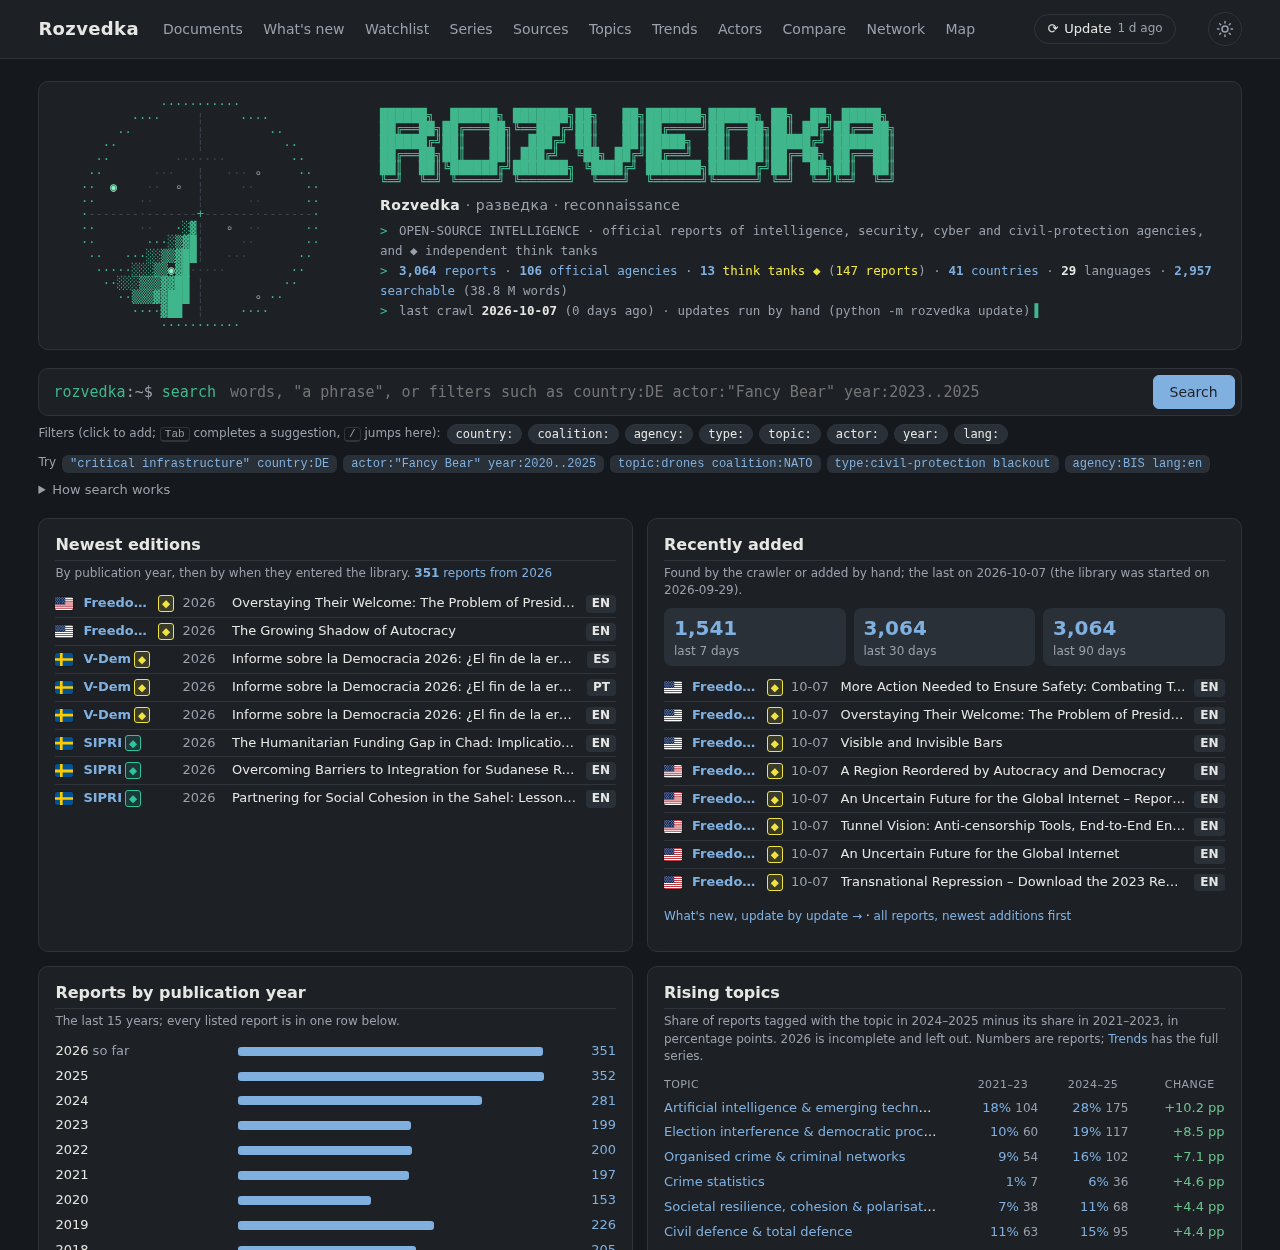
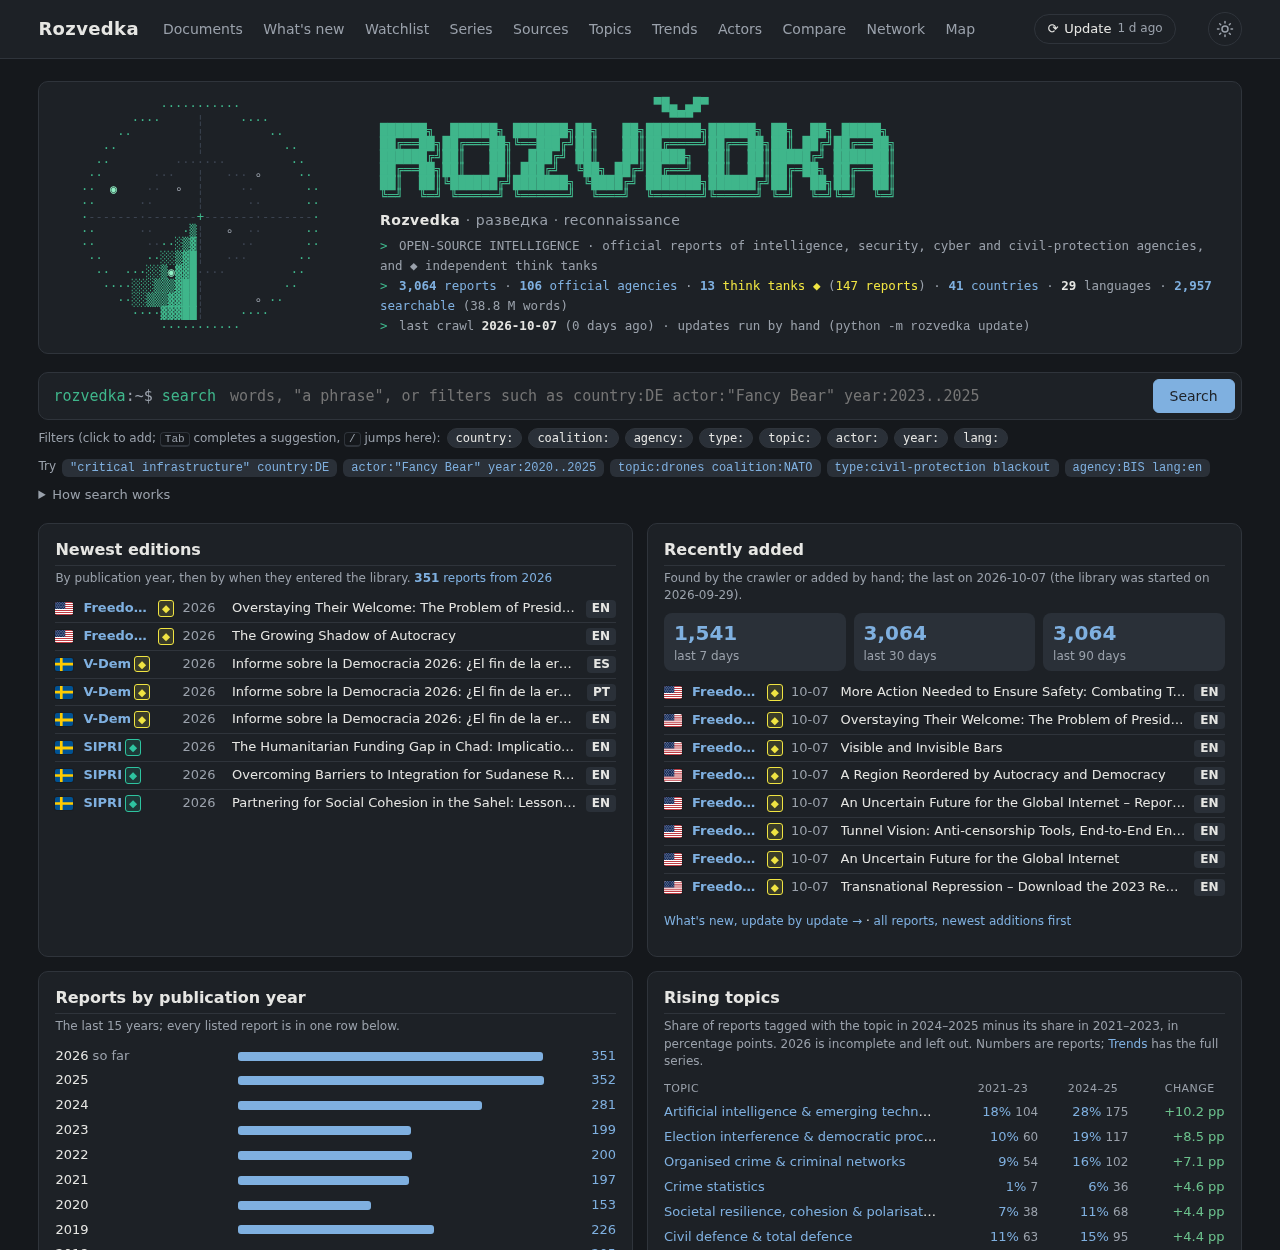
fix: home page lettering reads ROZVĚDKA – háček over the E (0.42.4)

diff --git a/rozvedka/templates/home.html b/rozvedka/templates/home.html
@@ -13,7 +13,9 @@
 <section class="h-banner" aria-labelledby="h-name">
   <pre class="h-radar" id="radar" aria-hidden="true"></pre>
   <div class="h-id">
-<pre class="h-word" aria-hidden="true">██████╗  ██████╗ ███████╗██╗   ██╗███████╗██████╗ ██╗  ██╗ █████╗
+<pre class="h-word" aria-hidden="true">                                   ▀█▄ ▄█▀
+                                     ▀▀▀
+██████╗  ██████╗ ███████╗██╗   ██╗███████╗██████╗ ██╗  ██╗ █████╗
 ██╔══██╗██╔═══██╗╚══███╔╝██║   ██║██╔════╝██╔══██╗██║ ██╔╝██╔══██╗
 ██████╔╝██║   ██║  ███╔╝ ██║   ██║█████╗  ██║  ██║█████╔╝ ███████║
 ██╔══██╗██║   ██║ ███╔╝  ╚██╗ ██╔╝██╔══╝  ██║  ██║██╔═██╗ ██╔══██║

diff --git a/rozvedka/__init__.py b/rozvedka/__init__.py
@@ -5,7 +5,7 @@ from pathlib import Path
 
 # Single source of the release version (Semantic Versioning, https://semver.org).
 # Do not edit by hand: run `python3 tools/bump_version.py patch|minor|major` (see CHANGELOG.md, "Versioning").
-__version__ = "0.42.3"
+__version__ = "0.42.4"
 
 
 @lru_cache(maxsize=1)

diff --git a/CHANGELOG.md b/CHANGELOG.md
@@ -27,6 +27,12 @@ From 0.9.1 on, the significance of a change decides which part of `MAJOR.MINOR.P
 
 ## [Unreleased]
 
+## [0.42.4] – 2026-10-07
+
+### Changed
+
+- The ROZVEDKA lettering on the home page carries a háček over the E (Ě), as in the Czech *rozvědka*.
+
 ## [0.42.3] – 2026-10-07
 
 ### Fixed
@@ -830,7 +836,8 @@ From 0.9.1 on, the significance of a change decides which part of `MAJOR.MINOR.P
 - Crawler, polite downloader (robots.txt, per-host delay, PDF check, de-duplication) and FastAPI web portal.
 - systemd user units for the portal and a weekly update timer.
 
-[Unreleased]: https://github.com/iiogurt/Rozvedka/compare/v0.42.3...HEAD
+[Unreleased]: https://github.com/iiogurt/Rozvedka/compare/v0.42.4...HEAD
+[0.42.4]: https://github.com/iiogurt/Rozvedka/compare/v0.42.3...v0.42.4
 [0.42.3]: https://github.com/iiogurt/Rozvedka/compare/v0.42.2...v0.42.3
 [0.42.2]: https://github.com/iiogurt/Rozvedka/compare/v0.42.1...v0.42.2
 [0.42.1]: https://github.com/iiogurt/Rozvedka/compare/v0.42.0...v0.42.1
